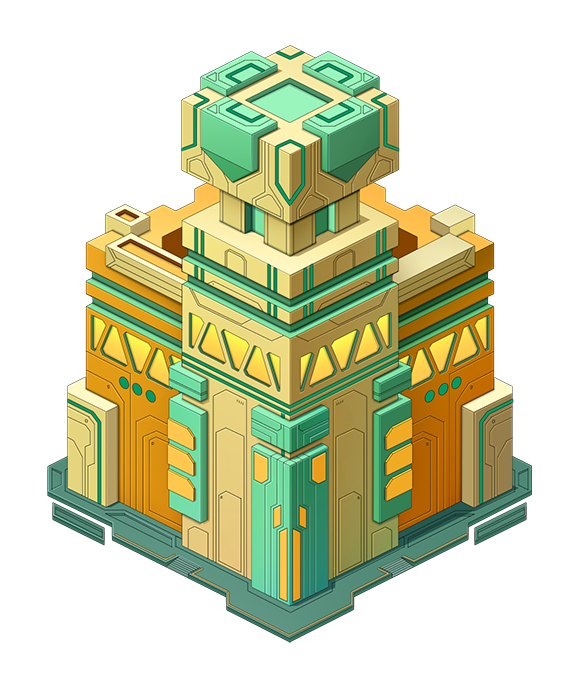
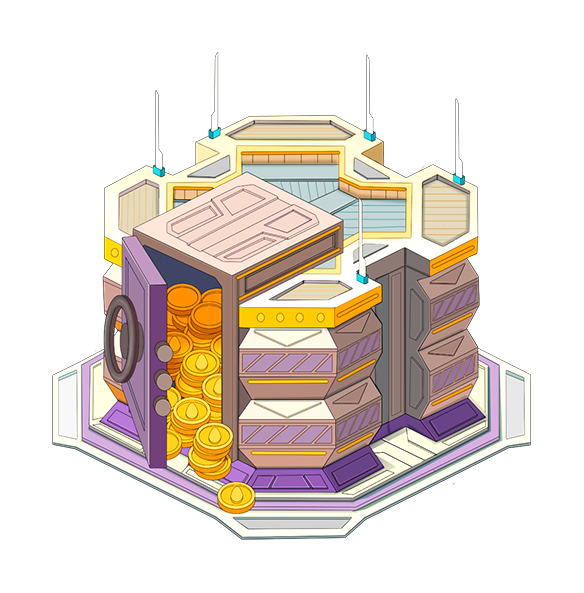
add bank

diff --git a/src/buildings/config.ts b/src/buildings/config.ts
@@ -50,8 +50,12 @@ import airportLevel2Stroke from './airport/2-stroke.png';
 import airportLevel3Stroke from './airport/3-stroke.png';
 import moneyVaultLevel2Img from './money-vault/2.png';
 import moneyVaultLevel2Stroke from './money-vault/2-stroke.png';
+import bankLevel1Img from './bank/1.png';
+import bankLevel1Stroke from './bank/1-stroke.png';
 import bankLevel2Img from './bank/2.png';
 import bankLevel2Stroke from './bank/2-stroke.png';
+import bankLevel3Img from './bank/3.png';
+import bankLevel3Stroke from './bank/3-stroke.png';
 import cyberArenaLevel3Img from './cyber-arena/3.png';
 import cyberArenaLevel2Img from './cyber-arena/2.png';
 import cyberArenaLevel1Img from './cyber-arena/1.png';
@@ -500,32 +504,30 @@ export class BuildingsService {
       title: 'Банк',
       coords: [5404, 1763],
       zIndex: ZIndexes.BUILDING_ONE_LEVEL,
-      maxLevel: TowerLevel.mid,
-      // TODO: не настоящая картинка
+      maxLevel: TowerLevel.high,
       [TowerLevel.low]: {
-        img: airportLevel1Img,
-        width: 572,
-        height: 398,
-        shadowImg: airportLevel1Stroke,
-        areaCoords: '510,47,70,345',
-        position: [20, 28.5],
+        img: bankLevel1Img,
+        width: 532,
+        height: 461,
+        shadowImg: bankLevel1Stroke,
+        areaCoords: '50,62,482,408',
+        position: [27, 66.5],
       },
       [TowerLevel.mid]: {
         img: bankLevel2Img,
-        width: 579,
-        height: 688,
+        width: 584,
+        height: 593,
         shadowImg: bankLevel2Stroke,
-        areaCoords: '516,39,69,578',
-        position: [23, 66.4],
+        areaCoords: '47,52,536,541',
+        position: [24.9, 66.3],
       },
-      // TODO: не настоящая картинка
       [TowerLevel.high]: {
-        img: airportLevel3Img,
-        width: 573,
-        height: 449,
-        shadowImg: airportLevel3Stroke,
-        areaCoords: '595,126,90,476',
-        position: [18.9, 28.3],
+        img: bankLevel3Img,
+        width: 585,
+        height: 593,
+        shadowImg: bankLevel3Stroke,
+        areaCoords: '50,47,545,545',
+        position: [24.9, 66.3],
       },
     },
     [TowersTypes.CYBER_ARENA]: {

diff --git a/src/effector/towers-progress/store.ts b/src/effector/towers-progress/store.ts
@@ -84,7 +84,7 @@ const initState: TowersProgressStoreType = {
     progress: 0,
   },
   [TowersTypes.BANK]: {
-    level: TowerLevel.mid,
+    level: TowerLevel.low,
     progress: 0,
   },
   [TowersTypes.CYBER_ARENA]: {
